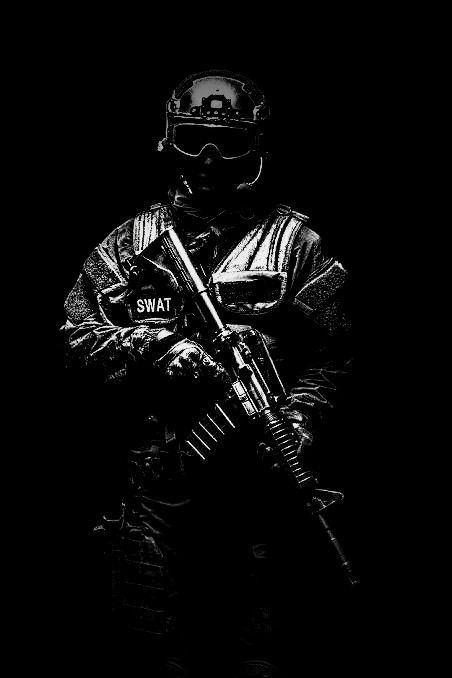
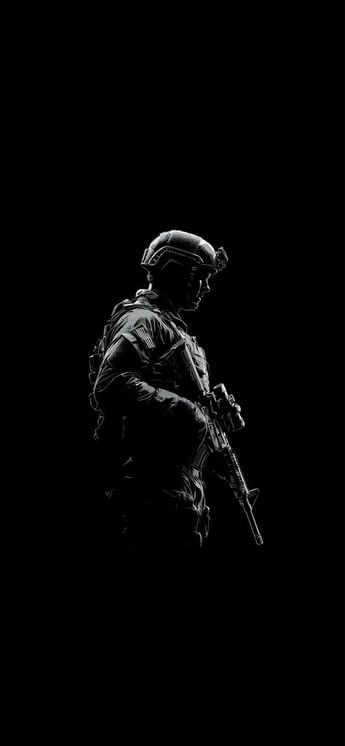
feat: nova imagem SWAT + degradê esq->dir + fundo #0d0d0d

diff --git a/src/Pages/PreparatorioViewPage.jsx b/src/Pages/PreparatorioViewPage.jsx
@@ -230,28 +230,28 @@ function PreparatorioViewPage() {
         <div style={{
           position: 'absolute',
           top: 0, left: 0,
-          width: '50%', height: '100%',
+          width: '55%', height: '100%',
           backgroundImage: `url(${bgImage})`,
           backgroundSize: 'cover',
           backgroundPosition: 'center top',
         }} />
-        {/* Camada escura com baixa opacidade por cima da imagem */}
+        {/* Camada escura suave sobre a imagem */}
         <div style={{
           position: 'absolute',
-          top: 0, left: 0, width: '50%', height: '100%',
-          backgroundColor: 'rgba(10, 10, 10, 0.45)'
+          top: 0, left: 0, width: '55%', height: '100%',
+          backgroundColor: 'rgba(0, 0, 0, 0.35)'
         }} />
-        {/* Degradê horizontal: imagem funde para o fundo escuro */}
+        {/* Degradê ESQUERDA → DIREITA: imagem some para o fundo */}
         <div style={{
           position: 'absolute',
           top: 0, left: 0, width: '100%', height: '100%',
-          background: 'linear-gradient(to right, transparent 0%, transparent 30%, rgba(20,20,20,0.7) 50%, #141414 65%)'
+          background: 'linear-gradient(to right, transparent 0%, transparent 25%, rgba(13,13,13,0.5) 45%, #0d0d0d 62%)'
         }} />
-        {/* Degradê vertical de baixo */}
+        {/* Degradê vertical: baixo da imagem some para o fundo */}
         <div style={{
           position: 'absolute',
-          bottom: 0, left: 0, width: '55%', height: '35%',
-          background: 'linear-gradient(to top, #141414 0%, transparent 100%)'
+          bottom: 0, left: 0, width: '60%', height: '40%',
+          background: 'linear-gradient(to top, #0d0d0d 0%, transparent 100%)'
         }} />
       </div>
       <header style={{...styles.header, position: 'relative', zIndex: 10}}>
@@ -427,7 +427,7 @@ function PreparatorioViewPage() {
 }
 
 const styles = {
-  container: { minHeight: '100vh', backgroundColor: '#141414', position: 'relative' },
+  container: { minHeight: '100vh', backgroundColor: '#0d0d0d', position: 'relative' },
   header: { 
     display: 'flex', 
     alignItems: 'center', 